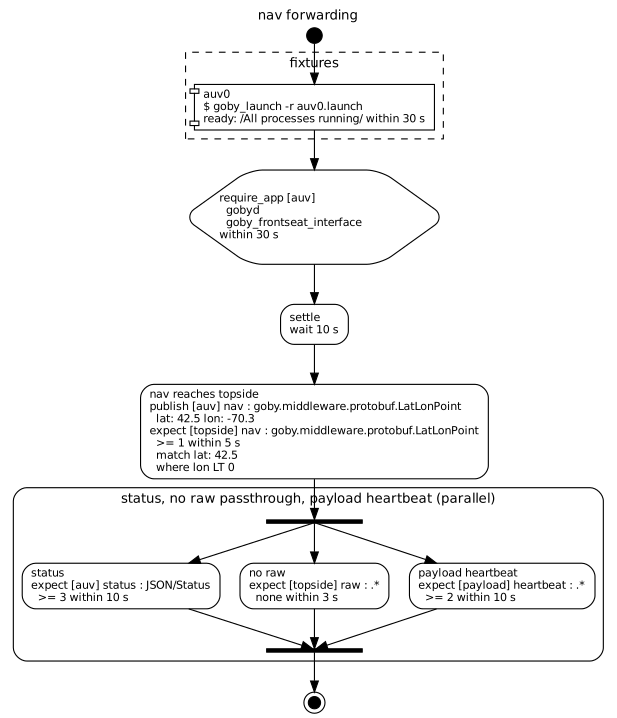
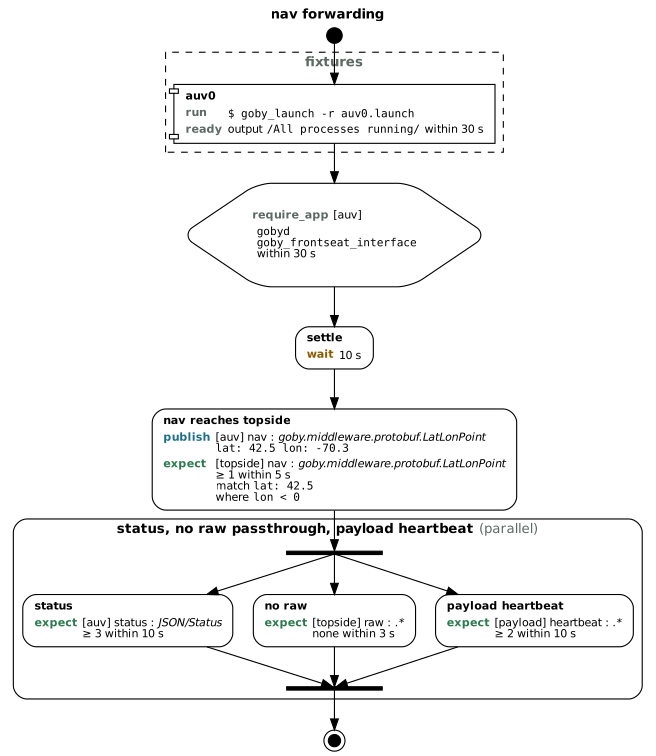
goby test visualize: HTML-like labels and operator symbols
Node labels are tables with bold names, colored publish/expect/wait
keywords and message contents in a monospace font; conditions read as
'lon < 0' rather than 'lon LT 0'. The documentation figure is updated.

Claude-Session: https://claude.ai/code/session_01TCmHEtpvX8dkUComiuAShz

diff --git a/src/apps/middleware/test_tool/visualize.cpp b/src/apps/middleware/test_tool/visualize.cpp
@@ -32,17 +32,21 @@ using namespace goby::middleware::protobuf;
 
 namespace
 {
-std::string escape(const std::string& s)
+// Graphviz HTML-like labels: https://graphviz.org/doc/info/shapes.html#html
+std::string html(const std::string& s)
 {
     std::string out;
     for (char c : s)
     {
-        if (c == '"' || c == '\\')
-            out += '\\';
-        if (c == '\n')
-            out += "\\l";
-        else
-            out += c;
+        switch (c)
+        {
+            case '&': out += "&amp;"; break;
+            case '<': out += "&lt;"; break;
+            case '>': out += "&gt;"; break;
+            case '"': out += "&quot;"; break;
+            case '\n': out += ' '; break;
+            default: out += c;
+        }
     }
     return out;
 }
@@ -61,6 +65,76 @@ std::string number(double d)
     return ss.str();
 }
 
+std::string code(const std::string& s) { return "<FONT FACE=\"Courier\">" + html(s) + "</FONT>"; }
+
+std::string bold(const std::string& s) { return "<B>" + html(s) + "</B>"; }
+
+std::string keyword(const std::string& s, const std::string& color)
+{
+    return "<FONT COLOR=\"" + color + "\"><B>" + s + "</B></FONT>";
+}
+
+const std::string publish_color = "#1f6f8b";
+const std::string expect_color = "#2d7a4f";
+const std::string wait_color = "#8a5a00";
+const std::string muted_color = "#5d6a63";
+
+// Builds a borderless two-column table: a heading row, then keyword / content rows
+class Table
+{
+  public:
+    explicit Table(const std::string& heading)
+    {
+        rows_ << "<TR><TD COLSPAN=\"2\" ALIGN=\"LEFT\">" << heading << "</TD></TR>";
+    }
+
+    // content lines are joined with left-aligned line breaks
+    Table& row(const std::string& key, const std::vector<std::string>& lines)
+    {
+        rows_ << "<TR><TD ALIGN=\"LEFT\" VALIGN=\"TOP\">" << key
+              << "</TD><TD ALIGN=\"LEFT\" BALIGN=\"LEFT\">";
+        for (std::size_t i = 0; i < lines.size(); ++i) rows_ << (i ? "<BR/>" : "") << lines[i];
+        rows_ << "</TD></TR>";
+        return *this;
+    }
+
+    std::string str() const
+    {
+        return "<<TABLE BORDER=\"0\" CELLBORDER=\"0\" CELLSPACING=\"0\" CELLPADDING=\"2\">" +
+               rows_.str() + "</TABLE>>";
+    }
+
+  private:
+    std::ostringstream rows_;
+};
+
+std::string op_text(PubSubTestCondition::Op op)
+{
+    switch (op)
+    {
+        case PubSubTestCondition::EQ: return "==";
+        case PubSubTestCondition::NE: return "!=";
+        case PubSubTestCondition::LT: return "<";
+        case PubSubTestCondition::LE: return "<=";
+        case PubSubTestCondition::GT: return ">";
+        case PubSubTestCondition::GE: return ">=";
+        case PubSubTestCondition::REGEX: return "=~";
+        case PubSubTestCondition::EXISTS: return "exists";
+        case PubSubTestCondition::ABSENT: return "absent";
+    }
+    return "?";
+}
+
+std::string condition_text(const PubSubTestCondition& c)
+{
+    std::string s = c.field() + " " + op_text(c.op());
+    if (c.op() == PubSubTestCondition::REGEX)
+        s += " /" + c.value() + "/";
+    else if (c.has_value())
+        s += " " + truncate(c.value(), 32);
+    return s;
+}
+
 class DotWriter
 {
   public:
@@ -73,8 +147,8 @@ class DotWriter
     std::string write(const std::string& title)
     {
         out_ << "digraph goby_test {\n"
-             << "  graph [rankdir=TB, fontname=\"Helvetica\", fontsize=12, labelloc=t, label=\""
-             << escape(title) << "\"];\n"
+             << "  graph [rankdir=TB, fontname=\"Helvetica\", fontsize=12, labelloc=t, label=<"
+             << bold(title) << ">];\n"
              << "  node [shape=box, style=rounded, fontname=\"Helvetica\", fontsize=10];\n"
              << "  edge [fontname=\"Helvetica\", fontsize=9];\n"
              << "  start [shape=circle, label=\"\", width=0.2, style=filled, fillcolor=black];\n";
@@ -85,18 +159,24 @@ class DotWriter
         {
             // edges are written after the cluster so 'start' isn't drawn inside it
             std::vector<std::pair<std::string, std::string>> fixture_edges;
-            out_ << "  subgraph cluster_fixtures {\n    label=\"fixtures\"; style=dashed;\n";
+            out_ << "  subgraph cluster_fixtures {\n    label=<" << keyword("fixtures", muted_color)
+                 << ">; style=dashed;\n";
             for (int i = 0, n = file_.fixture_size(); i < n; ++i)
             {
                 const auto& f = file_.fixture(i);
-                std::string label = f.name() + "\n$ " + truncate(f.command(), 60) + "\n";
+                Table t(bold(f.name()));
+                t.row(keyword("run", muted_color), {code("$ " + truncate(f.command(), 60))});
+                std::vector<std::string> ready;
                 if (f.ready().has_output_regex())
-                    label += "ready: /" + f.ready().output_regex() + "/ within " +
-                             number(f.ready().timeout()) + " s\n";
+                    ready.push_back("output " + code("/" + f.ready().output_regex() + "/") +
+                                    " within " + html(number(f.ready().timeout())) + " s");
                 if (f.ready().delay() > 0)
-                    label += "then wait " + number(f.ready().delay()) + " s\n";
+                    ready.push_back("then " + html(number(f.ready().delay())) + " s");
+                if (!ready.empty())
+                    t.row(keyword("ready", muted_color), ready);
+
                 const std::string id = "fixture_" + std::to_string(i);
-                out_ << "    " << id << " [shape=component, label=\"" << escape(label) << "\"];\n";
+                out_ << "    " << id << " [shape=component, label=" << t.str() << "];\n";
                 fixture_edges.push_back({prev, id});
                 prev = id;
             }
@@ -110,11 +190,13 @@ class DotWriter
             for (int i = 0, n = test.require_app_size(); i < n; ++i)
             {
                 const auto& req = test.require_app(i);
-                std::string label = "require_app " + endpoint(req.endpoint()) + "\n";
-                for (const auto& name : req.name()) label += "  " + name + "\n";
-                label += "within " + number(req.timeout()) + " s\n";
+                std::vector<std::string> names;
+                for (const auto& name : req.name()) names.push_back(code(name));
+                names.push_back("within " + html(number(req.timeout())) + " s");
+                Table t(keyword("require_app", muted_color) + " " + html(endpoint(req.endpoint())));
+                t.row("", names);
                 const std::string id = "require_app_" + std::to_string(i);
-                out_ << "  " << id << " [shape=hexagon, label=\"" << escape(label) << "\"];\n";
+                out_ << "  " << id << " [shape=hexagon, label=" << t.str() << "];\n";
                 edge(prev, id);
                 prev = id;
             }
@@ -183,40 +265,47 @@ class DotWriter
     {
         if (e.has_count())
             return e.count() == 0 ? "none" : "exactly " + std::to_string(e.count());
-        std::string s = ">= " + std::to_string(e.min_count());
+        std::string s = "&#8805; " + std::to_string(e.min_count());
         if (e.has_max_count())
-            s += ", <= " + std::to_string(e.max_count());
+            s += ", &#8804; " + std::to_string(e.max_count());
         return s;
     }
 
     template <typename Leaf>
     std::string leaf_label(const Leaf& leaf, const std::string& fallback_name, double timeout)
     {
-        std::string label = (leaf.name().empty() ? fallback_name : leaf.name()) + "\n";
+        Table t(bold(leaf.name().empty() ? fallback_name : leaf.name()));
         if (leaf.wait() > 0)
-            label += "wait " + number(leaf.wait()) + " s\n";
+            t.row(keyword("wait", wait_color), {html(number(leaf.wait())) + " s"});
+
         for (const auto& p : leaf.publish())
         {
-            label += "publish " + endpoint(p.endpoint()) + " " + p.group() + " : " + p.type();
+            std::string head =
+                html(endpoint(p.endpoint()) + " " + p.group()) + " : <I>" + html(p.type()) + "</I>";
+            std::vector<std::string> lines{head, code(truncate(p.value()))};
+            std::string timing;
             if (p.repeat() > 1)
-                label +=
-                    " x" + std::to_string(p.repeat()) + " every " + number(p.interval()) + " s";
+                timing = std::to_string(p.repeat()) + " times every " + number(p.interval()) + " s";
             if (p.delay() > 0)
-                label += " after " + number(p.delay()) + " s";
-            label += "\n  " + truncate(p.value()) + "\n";
+                timing +=
+                    (timing.empty() ? "" : ", ") + std::string("after ") + number(p.delay()) + " s";
+            if (!timing.empty())
+                lines.push_back("<FONT COLOR=\"" + muted_color + "\">" + html(timing) + "</FONT>");
+            t.row(keyword("publish", publish_color), lines);
         }
+
         for (const auto& e : leaf.expect())
         {
-            label += "expect " + endpoint(e.endpoint()) + " " + e.group() + " : " + e.type() +
-                     "\n  " + count_text(e) + " within " +
-                     number(e.has_timeout() ? e.timeout() : timeout) + " s\n";
+            std::vector<std::string> lines{
+                html(endpoint(e.endpoint()) + " " + e.group()) + " : <I>" + html(e.type()) + "</I>",
+                count_text(e) + " within " + html(number(e.has_timeout() ? e.timeout() : timeout)) +
+                    " s"};
             if (e.has_match())
-                label += "  match " + truncate(e.match()) + "\n";
-            for (const auto& c : e.condition())
-                label += "  where " + c.field() + " " + PubSubTestCondition::Op_Name(c.op()) +
-                         (c.has_value() ? " " + truncate(c.value(), 32) : "") + "\n";
+                lines.push_back("match " + code(truncate(e.match())));
+            for (const auto& c : e.condition()) lines.push_back("where " + code(condition_text(c)));
+            t.row(keyword("expect", expect_color), lines);
         }
-        return label;
+        return t.str();
     }
 
     std::pair<std::string, std::string> write_run(const PubSubTestRun& run, int i,
@@ -229,23 +318,23 @@ class DotWriter
 
         if (run.step_size() == 0)
         {
-            out_ << "  " << id << " [label=\"" << escape(leaf_label(run, run_name, timeout))
-                 << "\"];\n";
+            out_ << "  " << id << " [label=" << leaf_label(run, run_name, timeout) << "];\n";
             return {id, id};
         }
 
-        out_ << "  subgraph cluster_" << id << " {\n    label=\""
-             << escape(run_name + (run.mode() == PARALLEL ? " (parallel)" : " (sequential)"))
-             << "\"; style=rounded;\n";
+        out_ << "  subgraph cluster_" << id << " {\n    label=<" << bold(run_name)
+             << " <FONT COLOR=\"" << muted_color << "\">("
+             << (run.mode() == PARALLEL ? "parallel" : "sequential")
+             << ")</FONT>>; style=rounded;\n";
         std::vector<std::pair<std::string, std::string>> steps;
         for (int j = 0, m = run.step_size(); j < m; ++j)
         {
             const auto& step = run.step(j);
             const std::string sid = id + "_step_" + std::to_string(j);
             const double step_timeout = step.has_timeout() ? step.timeout() : timeout;
-            out_ << "    " << sid << " [label=\""
-                 << escape(leaf_label(step, "step " + std::to_string(j + 1), step_timeout))
-                 << "\"];\n";
+            out_ << "    " << sid
+                 << " [label=" << leaf_label(step, "step " + std::to_string(j + 1), step_timeout)
+                 << "];\n";
             steps.push_back({sid, sid});
         }
 
